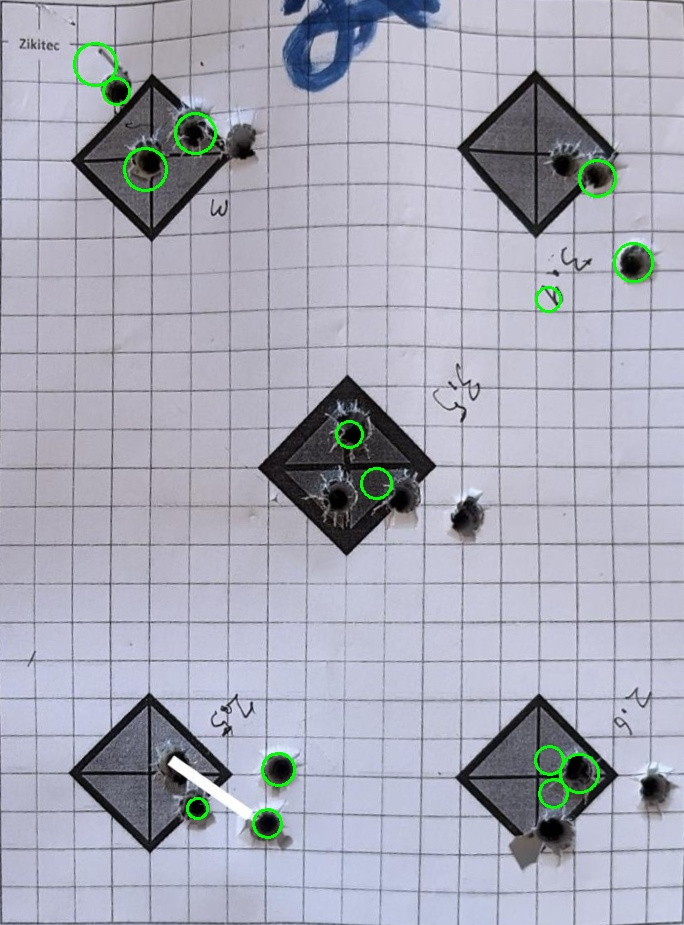
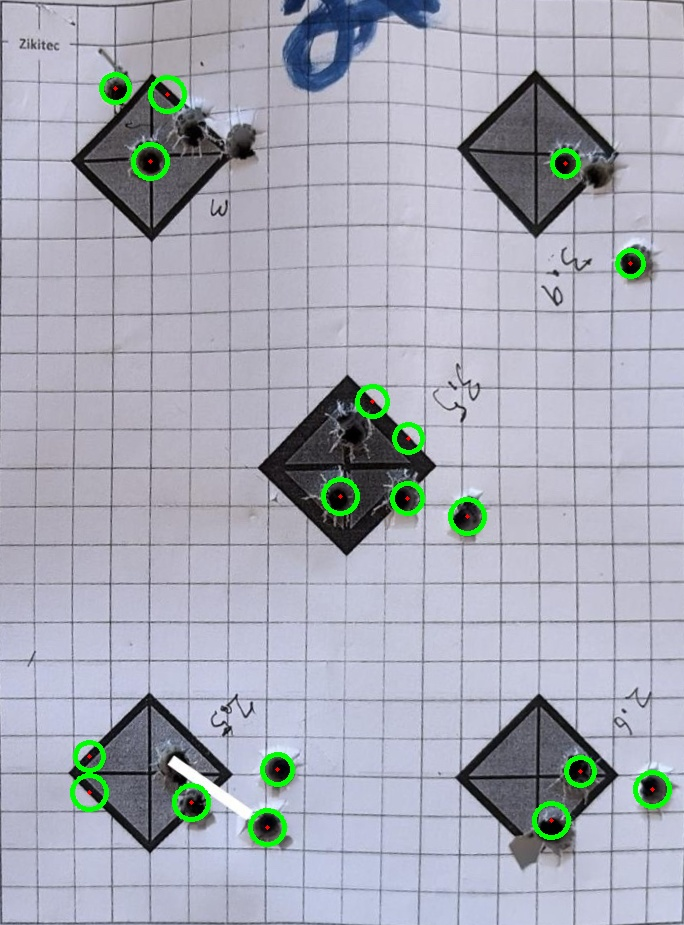
Add CLAUDE.md for project documentation and enhance image processing in main.py with bullet type and contrast adjustments. Added new debug images and improved circle validation logic. Include additional image files for testing.

diff --git a/main.py b/main.py
@@ -4,10 +4,12 @@ import numpy as np
 import cv2
 from scipy.spatial.distance import pdist
 import io
+from typing import Optional, Tuple, List
+import json
 
 app = FastAPI()
 
-def process_image(image_bytes):
+def process_image(image_bytes, bullet_type: str = "7.62mm", contrast_factor: float = 2.0):
     file_bytes = np.asarray(bytearray(image_bytes), dtype=np.uint8)
     img = cv2.imdecode(file_bytes, cv2.IMREAD_COLOR)
 
@@ -69,22 +71,86 @@ def process_image(image_bytes):
     M = cv2.getPerspectiveTransform(rect, dst)
     warped = cv2.warpPerspective(img, M, (maxWidth, maxHeight))
     warped_gray = cv2.cvtColor(warped, cv2.COLOR_BGR2GRAY)
-    warped_blur = cv2.GaussianBlur(warped_gray, (5, 5), 0)
     
-
-    circles = cv2.HoughCircles(
-        warped_blur, cv2.HOUGH_GRADIENT, dp=1.1, minDist=30,
-        param1=45, param2=25, minRadius=10, maxRadius=22
-    )
-    print('circles', circles)
-
-
-    results = []
+    # Apply CLAHE for better contrast
+    clahe = cv2.createCLAHE(clipLimit=contrast_factor, tileGridSize=(8,8))
+    enhanced = clahe.apply(warped_gray)
+    
+    # Different blur for edge detection vs circle detection
+    edge_blur = cv2.GaussianBlur(enhanced, (3, 3), 0)
+    circle_blur = cv2.GaussianBlur(enhanced, (5, 5), 0)
+    
+    # Adaptive parameters based on bullet type
+    if bullet_type == "7.62mm":
+        min_radius = 12  # ~30.5 pixels / 2.5
+        max_radius = 18  # ~30.5 pixels / 1.7
+        min_dist = 25
+        param2 = 18  # Lower for better detection of faint holes
+    else:  # .338 inch (8.6mm)
+        min_radius = 14  # ~34.4 pixels / 2.5
+        max_radius = 20  # ~34.4 pixels / 1.7
+        min_dist = 28
+        param2 = 18
+    
+    # Try multiple param1 values for better detection
+    all_circles = []
+    for param1 in [50, 70, 90]:
+        circles = cv2.HoughCircles(
+            circle_blur, cv2.HOUGH_GRADIENT, dp=1.2, minDist=min_dist,
+            param1=param1, param2=param2, minRadius=min_radius, maxRadius=max_radius
+        )
+        if circles is not None:
+            all_circles.extend(circles[0])
+    
+    # Remove duplicates by checking proximity
+    if all_circles:
+        all_circles = np.array(all_circles)
+        unique_circles = []
+        for circle in all_circles:
+            is_duplicate = False
+            for unique in unique_circles:
+                dist = np.linalg.norm(circle[:2] - unique[:2])
+                if dist < min_dist * 0.8:  # 80% of min distance
+                    is_duplicate = True
+                    break
+            if not is_duplicate:
+                unique_circles.append(circle)
+        circles = np.array(unique_circles).reshape(1, -1, 3) if unique_circles else None
+    else:
+        circles = None
+    # Additional validation - check for dark centers (actual holes)
+    validated_circles = []
     if circles is not None:
-        circles = np.uint16(np.around(circles[0]))
-        for (x_c, y_c, r) in circles:
+        for (x_c, y_c, r) in circles[0]:
+            x_c, y_c, r = int(x_c), int(y_c), int(r)
+            # Create a mask for the circle area
+            mask = np.zeros(enhanced.shape, dtype=np.uint8)
+            cv2.circle(mask, (x_c, y_c), int(r * 0.7), 255, -1)
+            
+            # Check if the center is darker than the surroundings
+            mean_center = cv2.mean(enhanced, mask=mask)[0]
+            
+            # Create ring mask for outer area
+            ring_mask = np.zeros(enhanced.shape, dtype=np.uint8)
+            cv2.circle(ring_mask, (x_c, y_c), int(r * 1.5), 255, -1)
+            cv2.circle(ring_mask, (x_c, y_c), r, 0, -1)
+            mean_ring = cv2.mean(enhanced, mask=ring_mask)[0]
+            
+            # Bullet holes should have darker centers
+            if mean_center < mean_ring * 0.85:  # Center is at least 15% darker
+                validated_circles.append([x_c, y_c, r])
+    
+    print(f'Total circles detected: {len(circles[0]) if circles is not None else 0}')
+    print(f'Validated circles: {len(validated_circles)}')
+    
+    results = []
+    if validated_circles:
+        for (x_c, y_c, r) in validated_circles:
             results.append((int(x_c), int(y_c)))
-            cv2.circle(warped, (x_c, y_c), r, (0, 255, 0), 2)
+            # Draw validated hits with thicker circles
+            cv2.circle(warped, (x_c, y_c), int(r), (0, 255, 0), 3)
+            # Add center dot
+            cv2.circle(warped, (x_c, y_c), 2, (0, 0, 255), -1)
 
     # 5. Distance in cm
     if len(results) >= 2:
@@ -96,8 +162,13 @@ def process_image(image_bytes):
     pixels_per_cm = 40  # Adjust this based on resolution
     max_cm = round(max_px / pixels_per_cm, 2)
 
-    # 6. Save result
+    # Save result and debug images
     cv2.imwrite("annotated_output.jpg", warped)
+    cv2.imwrite("enhanced_debug.jpg", enhanced)
+    
+    # Save threshold debug for analysis
+    _, binary = cv2.threshold(enhanced, 0, 255, cv2.THRESH_BINARY + cv2.THRESH_OTSU)
+    cv2.imwrite("thresh_debug.jpg", binary)
 
     return {
         "num_hits": len(results),
@@ -111,11 +182,11 @@ async def root():
     return {"message": "Grouping Analysis API - ScopeStats"}
 
 @app.post("/upload/")
-async def upload_image():
+async def upload_image(bullet_type: str = "7.62mm", contrast: float = 2.0):
     test_image = "test.jpeg"
     with open(test_image, "rb") as f:
         contents = f.read()
-        result = process_image(contents)
+        result = process_image(contents, bullet_type=bullet_type, contrast_factor=contrast)
         print('result', result)
         return JSONResponse(content=result, status_code=200)
 
